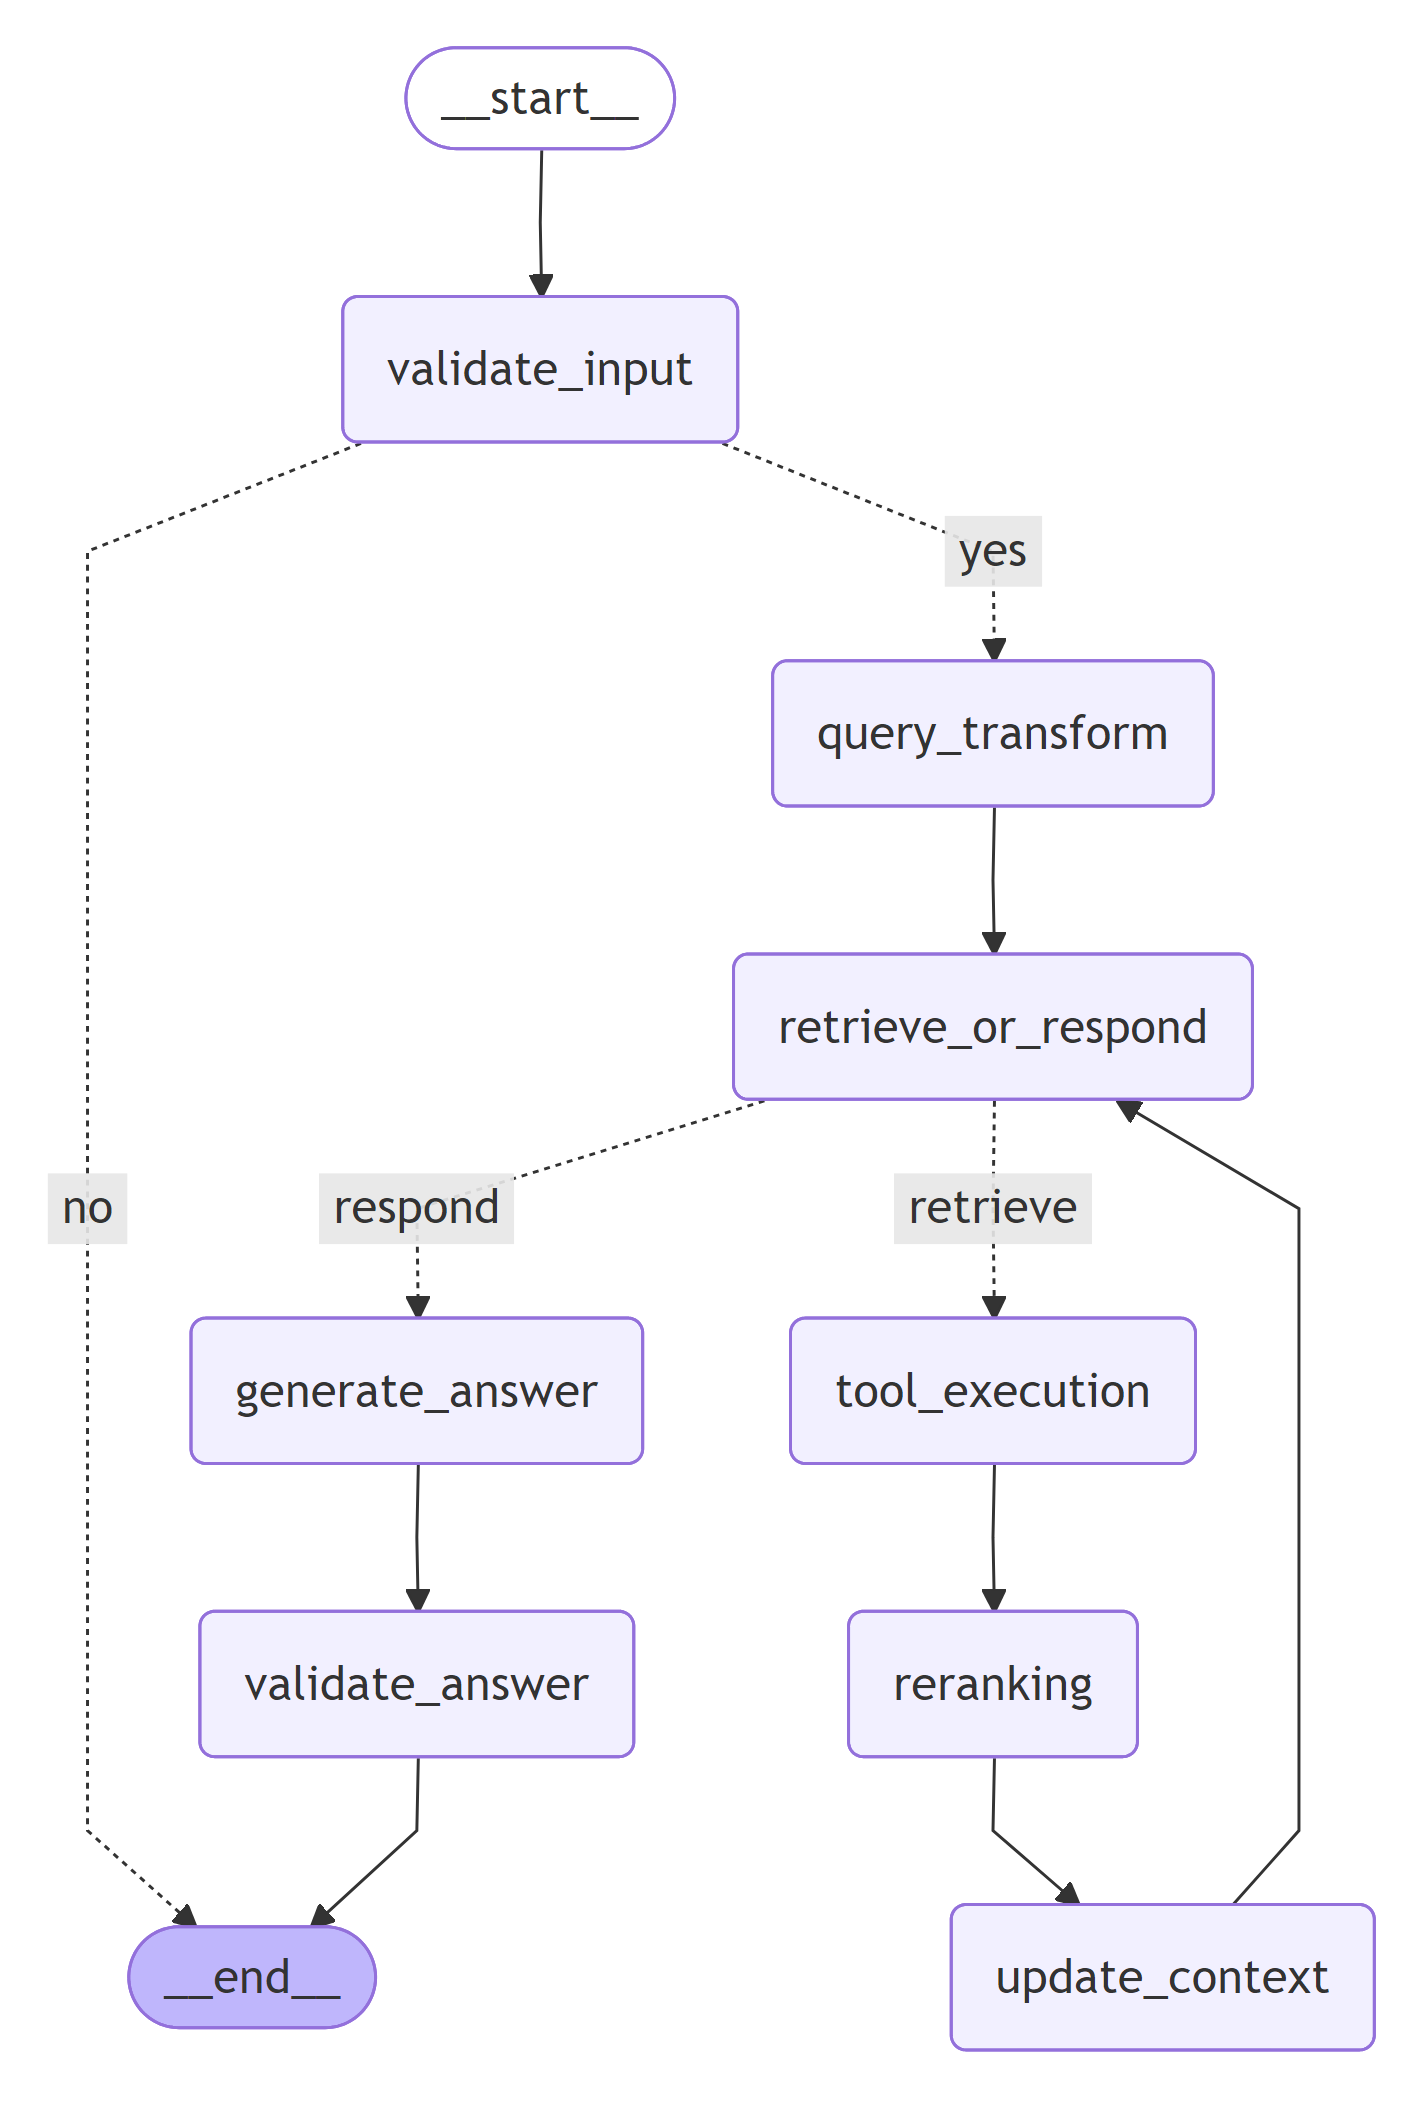
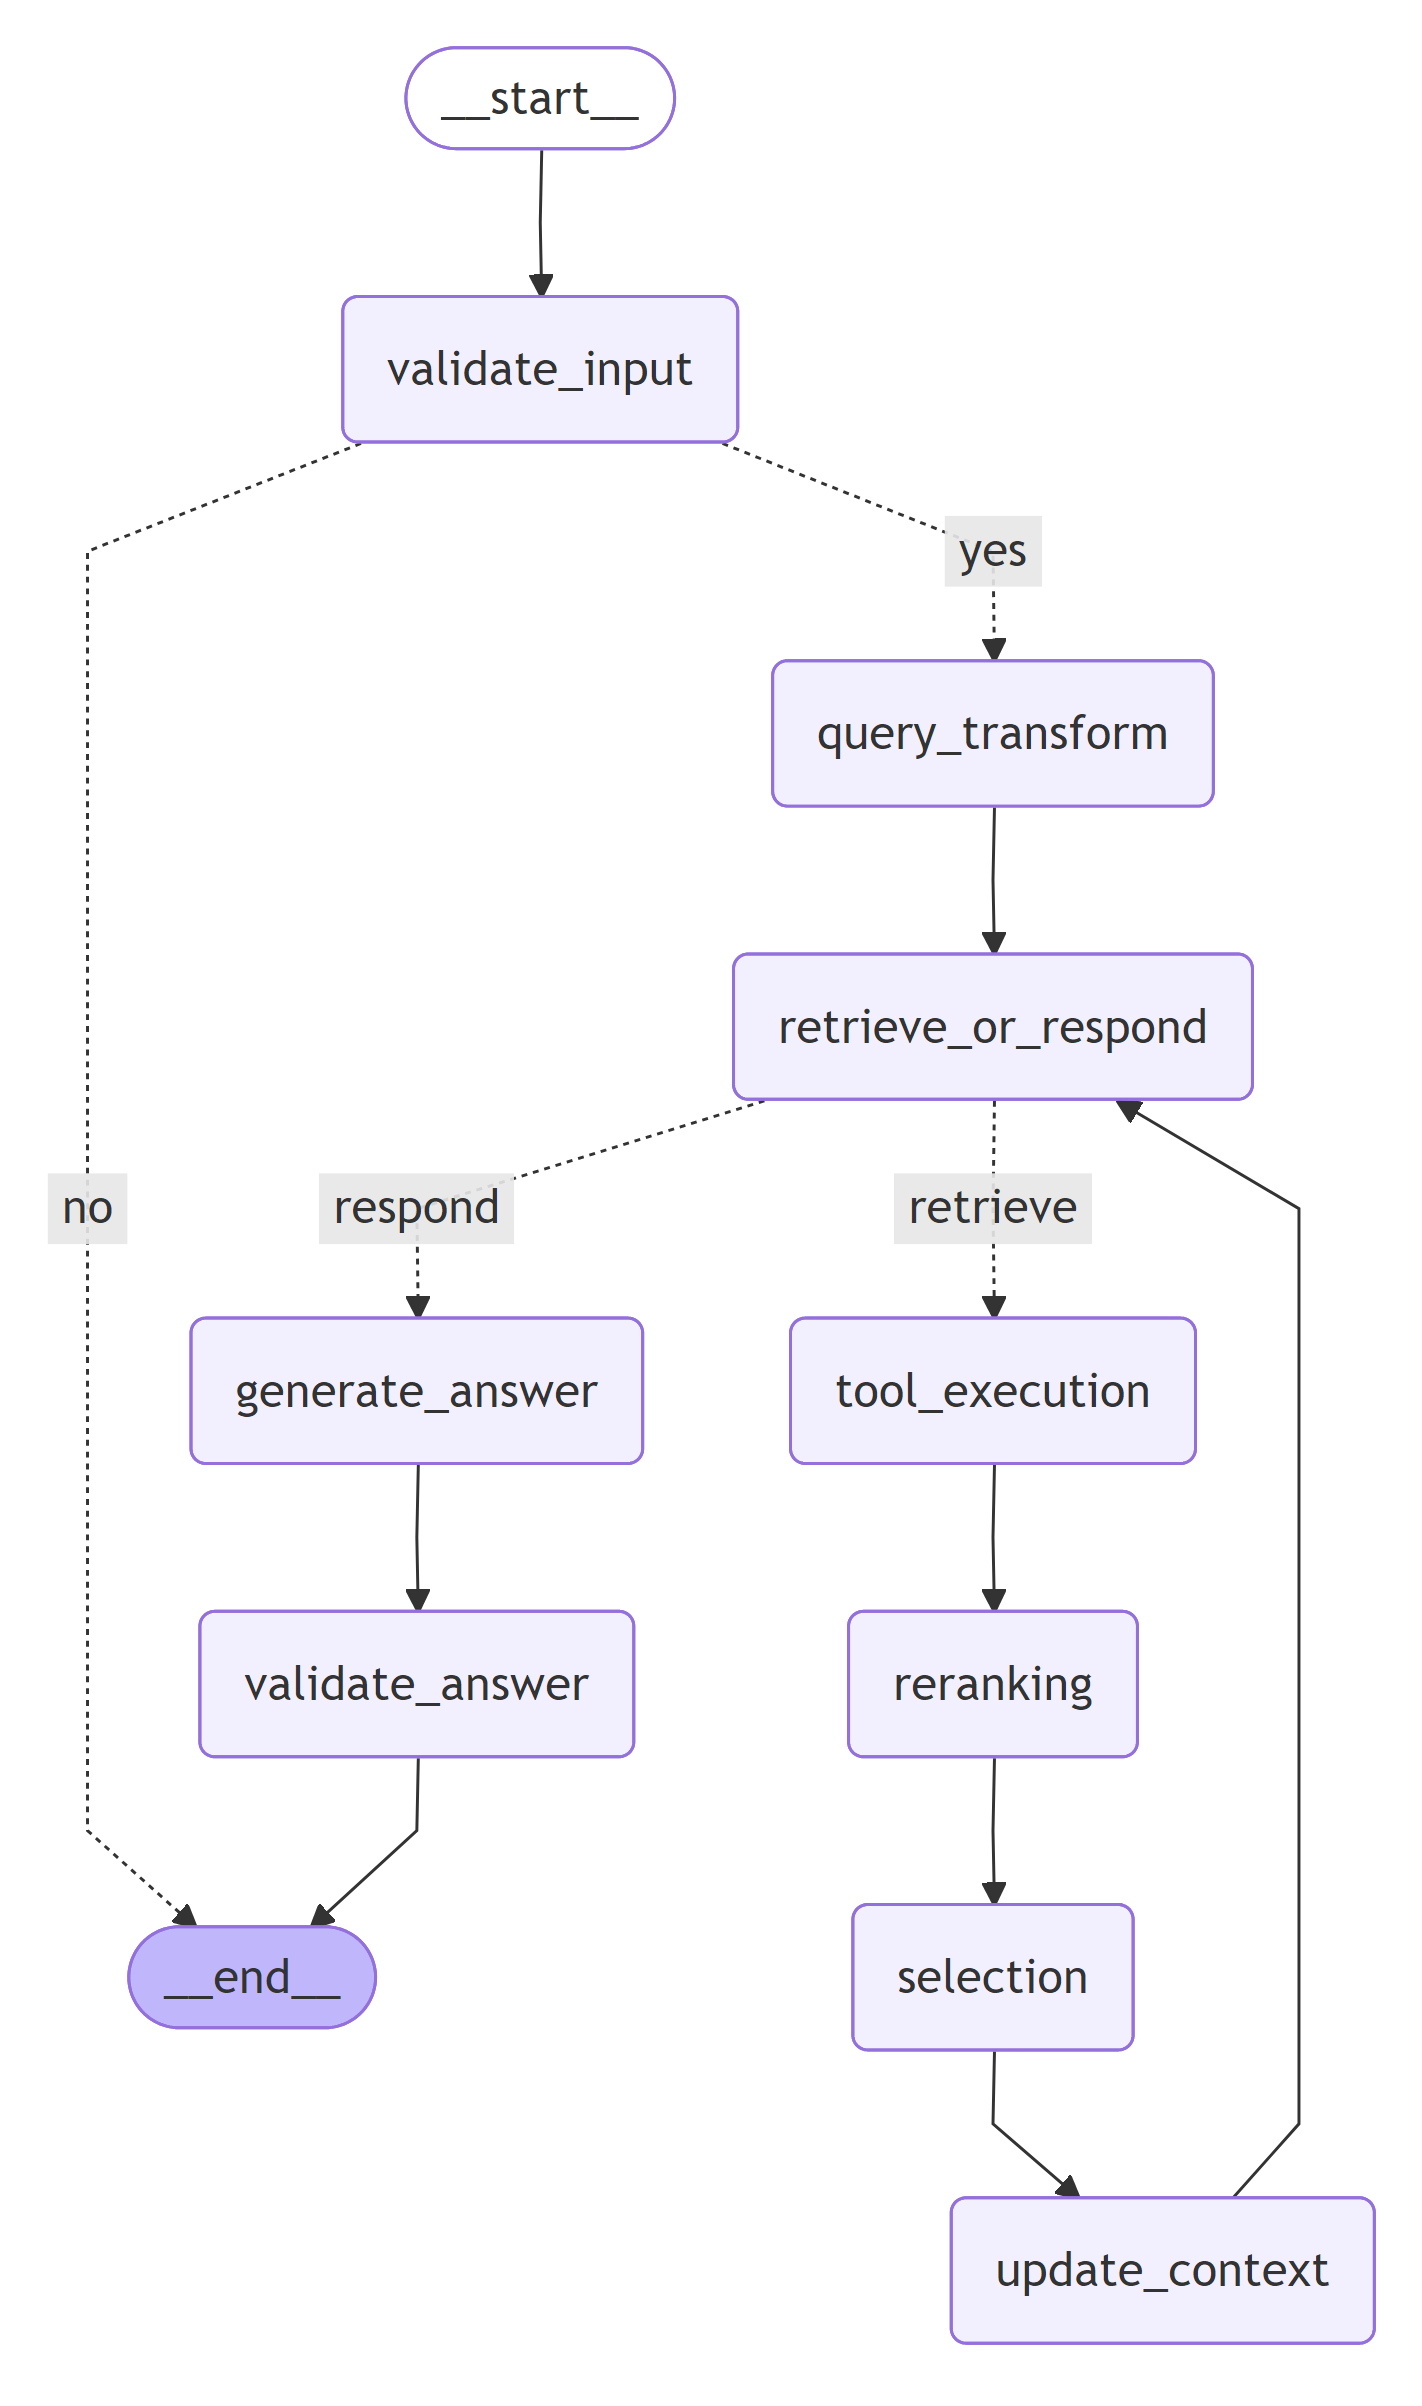
selection implemented

diff --git a/nodes/selection.py b/nodes/selection.py
@@ -1,0 +1,58 @@
+from typing import List, Dict, Any
+from utils.state import AgentState
+from langchain_core.messages import AIMessage
+
+class ChunckSelection:
+
+    def __init__(self, strategies: List[str], options: Dict[str, Dict[str, Any]]):
+        self._strategies = strategies
+        self._options = options
+
+    def _selection_by_threshold(self, chunks: List[str], scores: List[float], options: Dict[str, Any]):
+        if not options:
+            raise Exception("threshold options not found")
+        if "min" not in options:
+            raise Exception("min field not found in threshold options")
+        threshold = options["min"]
+        selected_chunks = []
+        selected_scores = []
+        for i in range(len(chunks)):
+            if scores[i] >= threshold:
+                selected_chunks.append(chunks[i])
+                selected_scores.append(scores[i])
+        return selected_chunks, selected_scores
+
+    def _selection_by_topk(self, chunks: List[str], scores: List[float], options: Dict[str, Any]):
+        if not options:
+            raise Exception("topk options not found")
+        if "k" not in options:
+            raise Exception("k field not found in topk options")
+        k = options["k"]
+        # Get sorted indices based on scores
+        indices = sorted(range(len(scores)), key=lambda i : scores[i], reverse=True)
+        # Reorder chunks using sorted indices
+        sorted_chunks = [chunks[i] for i in indices]
+
+        return sorted_chunks[:k]
+
+    def select(self, state: AgentState) -> AgentState:
+        chunks = state['chunks']
+        scores = state['reranking_score']
+
+        for strategy in self._strategies:
+            if strategy == "threshold":
+                strategy_option = self._options.get("threshold")
+                chunks, scores = self._selection_by_threshold(chunks, scores, strategy_option)
+            elif strategy == "topk":
+                strategy_option = self._options.get("topk")
+                chunks = self._selection_by_topk(chunks, scores, strategy_option)
+            else:
+                raise NotImplementedError(f"selection strategy {strategy} not supported")
+        
+        state["messages"].append(AIMessage(f"{len(chunks)} selected"))
+        state["chunks"] = chunks
+        state["reranking_score"] = None
+
+        return state
+
+

diff --git a/utils/agent.py b/utils/agent.py
@@ -11,6 +11,7 @@ from nodes.update_context import update_context
 from nodes.answer import GenerateAnswer
 from nodes.output_validation import AnswerValidation
 from nodes.reranking import Reranking
+from nodes.selection import ChunckSelection
 
 def build_agent(app_config, prompts):
 
@@ -27,6 +28,7 @@ def build_agent(app_config, prompts):
     graph.add_node("retrieve_or_respond", ToolCalling(llm, prompts["retrieve_respond"], tools).choose)
     graph.add_node("tool_execution", ToolNode(tools))
     graph.add_node("reranking", Reranking(app_config["reranking_strategies"], app_config["reranking_weights"], app_config["reranking_strategies_options"], prompts).rerank)
+    graph.add_node("selection", ChunckSelection(app_config["selection_strategies"], app_config["selection_options"]).select)
     graph.add_node("update_context", update_context)
     graph.add_node("generate_answer", GenerateAnswer(llm, prompts["output"]).generate_answer)
     graph.add_node("validate_answer", AnswerValidation(llm, prompts["output_check"]).validate)
@@ -50,7 +52,8 @@ def build_agent(app_config, prompts):
         }
     )
     graph.add_edge("tool_execution", "reranking")
-    graph.add_edge("reranking", "update_context")
+    graph.add_edge("reranking", "selection")
+    graph.add_edge("selection", "update_context")
     graph.add_edge("update_context", "retrieve_or_respond")
     graph.add_edge("generate_answer", "validate_answer")
     graph.add_edge("validate_answer", END)

diff --git a/utils/state.py b/utils/state.py
@@ -1,4 +1,4 @@
-from typing import List, TypedDict, Annotated
+from typing import List, TypedDict, Annotated, Union
 from langchain_core.messages import AnyMessage
 from langgraph.graph.message import add_messages
 
@@ -6,9 +6,9 @@ class AgentState(TypedDict):
     messages: Annotated[List[AnyMessage], add_messages]
     question: str
     context: str
-    chunks: List[str]
+    chunks: Union[List[str], None]
     original_question: str
-    reranking_score: List[float]
+    reranking_score: Union[List[float], None]
 
     @classmethod
     def create(cls, messages=[], question=""):
@@ -16,7 +16,7 @@ class AgentState(TypedDict):
             messages=messages, 
             question=question,
             context="",
-            chunks=[],
+            chunks=None,
             original_question=question,
-            reranking_score=[]
+            reranking_score=None
         )

diff --git a/utils/processing.py b/utils/processing.py
@@ -41,5 +41,5 @@ def stream_response(agent: CompiledStateGraph[AgentState], user_query: str):
                     context = (value["context"][:100] + "...") if value["context"] else ""
                     print(f"Context: {context}")
                     print(f"Reranking score: {value["reranking_score"]}")
-                    chunks = (str(value["chunks"])[:100] + "...]") if value["chunks"] else []
+                    chunks = (str(value["chunks"])[:100] + "...]") if value["chunks"] else value["chunks"]
                     print(f"Chunks: {chunks}")

diff --git a/nodes/output_validation.py b/nodes/output_validation.py
@@ -14,7 +14,9 @@ class AnswerValidation:
         answer = state['messages'][-1].content
         prompt = PromptTemplate.from_template(self._prompt).invoke({"question":question, "context": context, "answer": answer})
         response = self._llm.invoke(prompt)
-        state['messages'].append(response)
+
+        if "pass" not in response.content.lower():
+            state['messages'].append(response)
 
         return state
     

diff --git a/nodes/update_context.py b/nodes/update_context.py
@@ -10,8 +10,7 @@ def update_context(state: AgentState):
     if state["chunks"]:
         new_context = "\n\n".join(state['chunks'])
         message = AIMessage("Context Updated")
-        state["chunks"] = []
-        state["reranking_score"] = []
+        state["chunks"] = None
         state['context'] = state['context'] + new_context
     else:
         message = AIMessage("No new Context")

diff --git a/app.py b/app.py
@@ -25,7 +25,7 @@ if __name__ == "__main__":
 
     agent = build_agent(app_config, prompts)
 
-    # Uncomment the following line, to generate a png with the agent structure
+    # Uncomment the following line, to generate a png image of the agent's structure
     save_to_png(agent)
     user_query = input("Enter: ")
     
